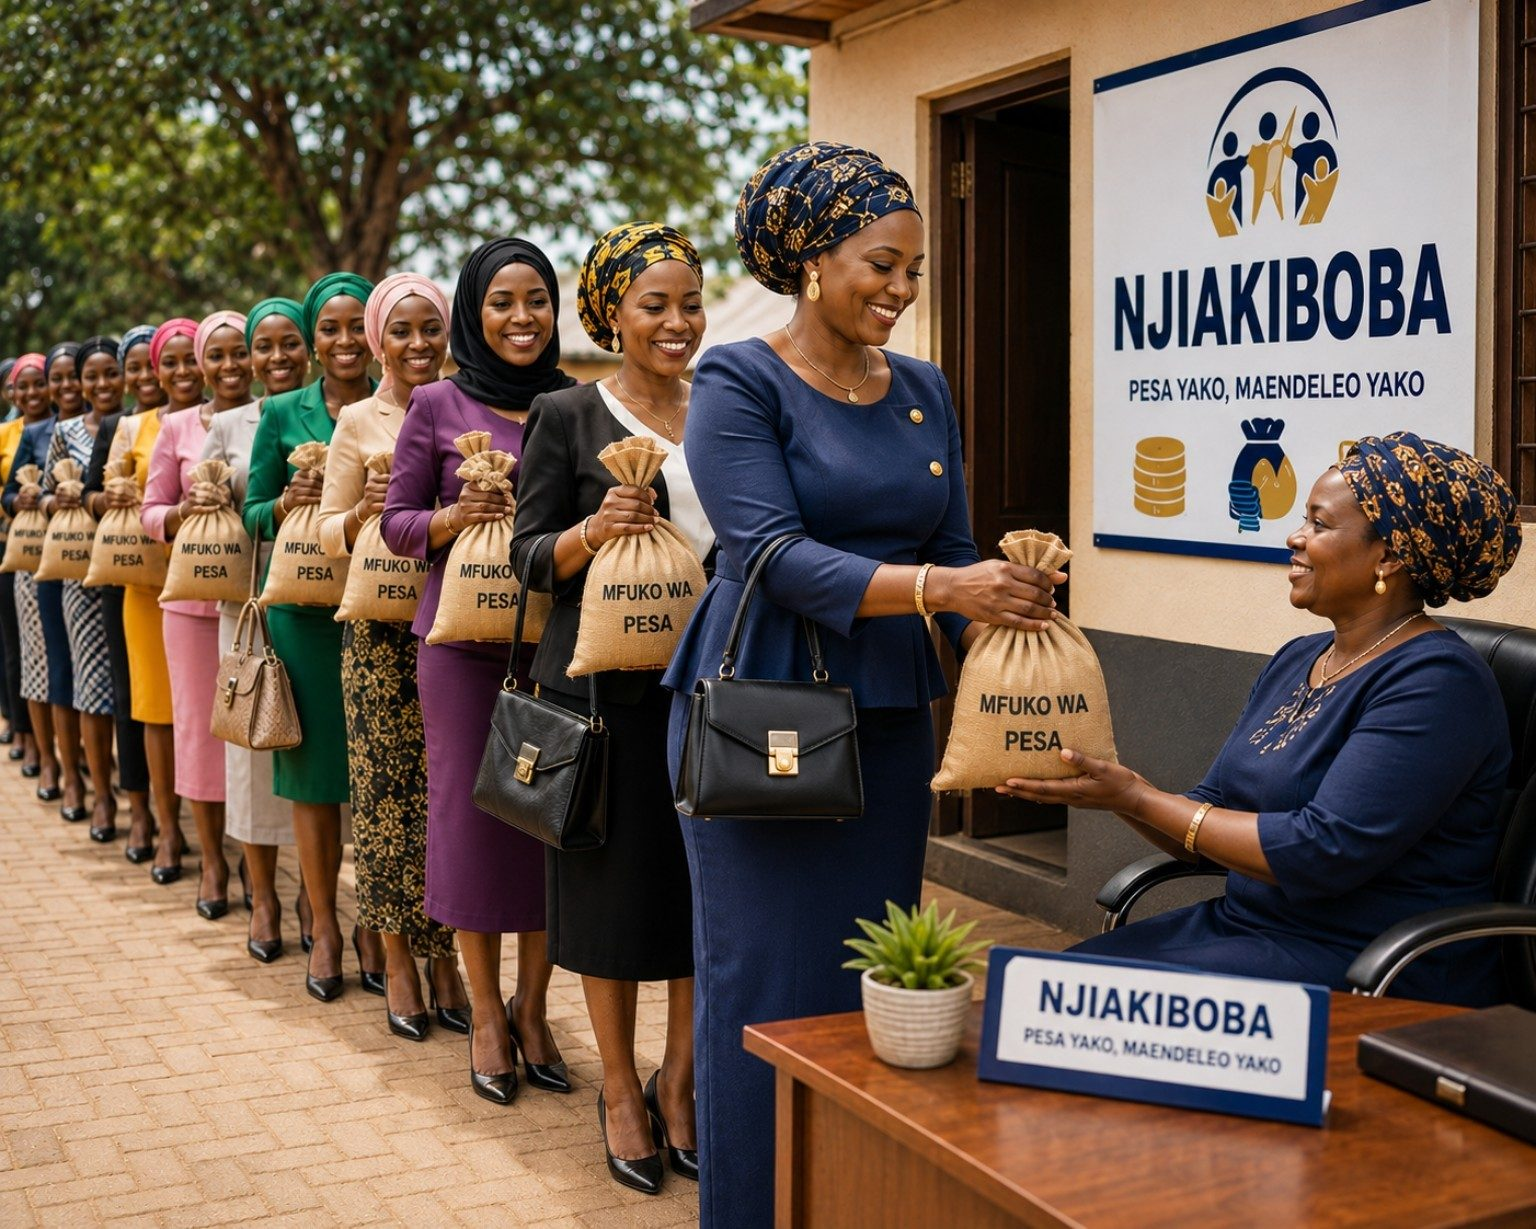
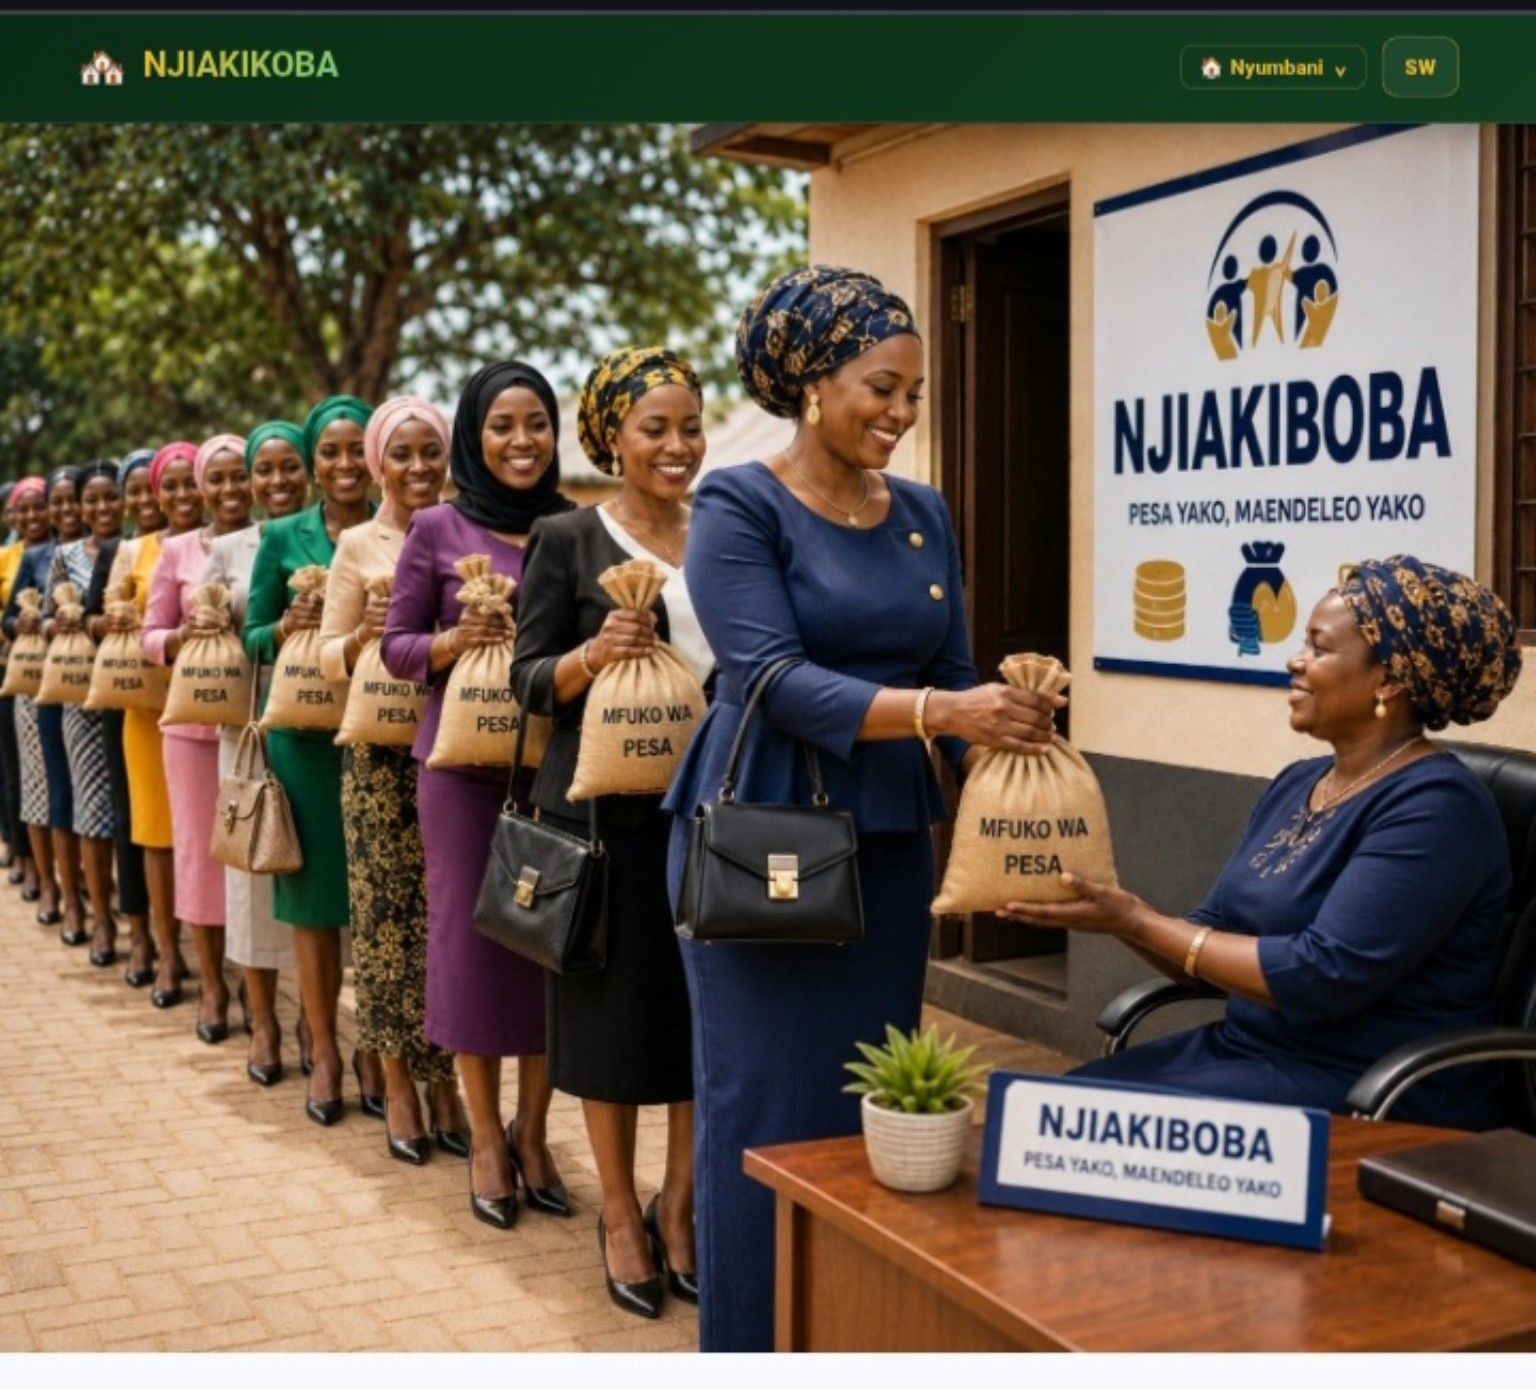
Add files via upload

diff --git a/static/style.css b/static/style.css
@@ -395,60 +395,73 @@ body{overflow-x:hidden}
 @media(max-width:600px){.dash2-stats{grid-template-columns:1fr}.dash2-quick{grid-template-columns:1fr 1fr}.dash2-banner{flex-direction:column;align-items:flex-start}.dash2-banner-right{width:100%}.dash2-banner-right .btn{flex:1}.dash2-name{font-size:22px}}
 
 
-/* ===== FINAL MOBILE/HOME HERO REPAIR =====
-   Preserve the existing NJIAKIKOBA Home structure:
-   hero image first, then readable hero content below it.
-*/
+/* ===== FINAL NJIAKIKOBA HOME — supplied hero image + left content ===== */
 body{overflow-x:hidden}
 
 .hero.hero-home{
+  position:relative;
   display:block;
-  min-height:0;
+  min-height:680px;
   padding:0;
-  background:#f7f9fc !important;
   overflow:hidden;
+  background:#062c17 !important;
 }
 
 .hero.hero-home .hero-bg-image{
-  display:block;
-  position:relative;
+  position:absolute;
+  inset:0;
   z-index:1;
+  display:block;
   width:100%;
-  height:auto;
-  max-width:100%;
+  height:100%;
+  max-width:none;
   object-fit:cover;
   object-position:center center;
   margin:0;
 }
 
 .hero.hero-home .hero-fade{
-  display:none;
+  position:absolute;
+  inset:0;
+  z-index:2;
+  display:block;
+  background:linear-gradient(90deg,
+    rgba(4,28,15,.94) 0%,
+    rgba(5,35,18,.86) 28%,
+    rgba(6,43,21,.58) 48%,
+    rgba(5,31,16,.12) 72%,
+    rgba(5,31,16,.04) 100%);
 }
 
 .hero.hero-home .hero-content{
   position:relative;
-  z-index:2;
-  max-width:760px;
-  padding:44px 6% 52px;
+  z-index:3;
+  min-height:680px;
+  width:min(620px,52%);
+  max-width:620px;
+  padding:82px 0 70px 6%;
   margin:0;
-  color:#14213d;
-  background:#f7f9fc;
+  display:flex;
+  flex-direction:column;
+  justify-content:center;
+  color:#fff;
 }
 
 .hero.hero-home .hero-greeting{
-  color:#5b6b62;
+  color:#f3d36b;
   font-size:14px;
-  font-weight:700;
-  margin:0 0 7px;
+  font-weight:800;
+  margin:0 0 9px;
+  text-shadow:0 2px 10px rgba(0,0,0,.35);
 }
 
 .hero.hero-home .hero-content h1{
-  color:#12321c !important;
-  font-size:clamp(38px,7vw,58px);
-  line-height:1.08;
-  letter-spacing:-1.5px;
-  margin:0 0 18px;
-  text-shadow:none;
+  color:#fff !important;
+  font-size:clamp(42px,5.4vw,74px);
+  line-height:1.02;
+  letter-spacing:-2.2px;
+  margin:0 0 20px;
+  text-shadow:0 4px 18px rgba(0,0,0,.42);
 }
 
 .hero.hero-home .hero-content h1 span{
@@ -458,16 +471,16 @@ body{overflow-x:hidden}
   -webkit-background-clip:initial;
   background-clip:initial;
   -webkit-text-fill-color:var(--hg-gold) !important;
-  text-shadow:none;
+  text-shadow:0 3px 15px rgba(0,0,0,.3);
 }
 
 .hero.hero-home .hero-content p{
-  max-width:650px;
-  color:#5b6b62 !important;
-  font-size:16px;
+  max-width:600px;
+  color:#f3f7f4 !important;
+  font-size:18px;
   line-height:1.7;
-  margin:0 0 24px;
-  text-shadow:none;
+  margin:0 0 25px;
+  text-shadow:0 2px 10px rgba(0,0,0,.4);
 }
 
 .hero.hero-home .hero-actions{
@@ -481,19 +494,19 @@ body{overflow-x:hidden}
 
 .hero.hero-home .hero-actions .btn{
   width:100%;
-  min-height:52px;
+  min-height:54px;
   box-sizing:border-box;
 }
 
 .hero.hero-home .home-login-box{
   width:100%;
   max-width:420px;
-  margin-top:18px;
-  padding:16px 18px;
-  background:#ffffff;
-  border:1px solid #e1e9e3;
+  margin-top:17px;
+  padding:14px 16px;
+  background:rgba(255,255,255,.97);
+  border:1px solid rgba(255,255,255,.75);
   border-radius:14px;
-  box-shadow:0 8px 24px rgba(15,60,30,.07);
+  box-shadow:0 12px 30px rgba(0,0,0,.18);
   color:#12321c;
 }
 
@@ -502,7 +515,7 @@ body{overflow-x:hidden}
   font-size:15px;
   font-weight:800;
   line-height:1.4;
-  margin:0 0 10px;
+  margin:0 0 9px;
 }
 
 .hero.hero-home .home-login-actions{
@@ -517,10 +530,10 @@ body{overflow-x:hidden}
   align-items:center;
   justify-content:flex-start;
   gap:9px;
-  min-height:46px;
+  min-height:44px;
   width:100%;
   box-sizing:border-box;
-  padding:10px 12px;
+  padding:9px 12px;
   border:1px solid #e1e9e3;
   border-radius:10px;
   background:#f8fbf9;
@@ -528,7 +541,6 @@ body{overflow-x:hidden}
   font-size:14px;
   font-weight:800;
   overflow-wrap:anywhere;
-  word-break:normal;
 }
 
 .hero.hero-home .home-login-actions a:hover{
@@ -537,49 +549,75 @@ body{overflow-x:hidden}
   color:#0e7a34 !important;
 }
 
-@media(max-width:600px){
-  .hero.hero-home .hero-bg-image{
-    width:100%;
-    height:auto;
-    min-height:0;
-    object-fit:cover;
-  }
+/* Supplied image #3 is the actual Home click target. */
+.home-nav-btn{
+  display:inline-flex;
+  align-items:center;
+  justify-content:center;
+  gap:7px;
+  min-height:38px;
+  border:1px solid rgba(232,185,35,.38);
+  border-radius:10px;
+  padding:4px 9px 4px 5px;
+  font-size:13px;
+  font-weight:800;
+  color:#e8b923;
+  background:rgba(0,0,0,.08);
+  cursor:pointer;
+}
+.home-nav-btn:hover{background:rgba(232,185,35,.12)}
+.home-click-icon{width:29px;height:29px;display:block;object-fit:cover;border-radius:7px}
+.home-menu-toggle{
+  display:inline-flex;
+  align-items:center;
+  justify-content:center;
+  width:30px;
+  height:38px;
+  margin-left:-7px;
+  border:0;
+  border-left:1px solid rgba(232,185,35,.22);
+  border-radius:0 9px 9px 0;
+  color:#e8b923;
+  background:transparent;
+  cursor:pointer;
+}
+.home-menu-toggle:hover{background:rgba(232,185,35,.10)}
+.home-menu-wrap{display:flex;align-items:center;position:relative}
+.home-menu-panel{top:calc(100% + 9px)}
+.home-menu-wrap:has(.home-menu-panel.open) .home-caret{transform:rotate(180deg)}
 
+@media(max-width:900px){
+  .hero.hero-home{min-height:680px}
+  .hero.hero-home .hero-content{min-height:680px;width:min(650px,70%);padding-left:6%}
+  .hero.hero-home .hero-content h1{font-size:clamp(40px,7vw,60px)}
+}
+
+@media(max-width:600px){
+  .hero.hero-home{min-height:760px}
+  .hero.hero-home .hero-bg-image{object-position:58% center}
+  .hero.hero-home .hero-fade{
+    background:linear-gradient(180deg,rgba(4,28,15,.86) 0%,rgba(5,35,18,.76) 43%,rgba(5,31,16,.55) 72%,rgba(5,31,16,.62) 100%);
+  }
   .hero.hero-home .hero-content{
+    min-height:760px;
     width:100%;
     max-width:none;
-    padding:34px 6% 42px;
+    padding:42px 6% 44px;
+    justify-content:flex-end;
   }
-
   .hero.hero-home .hero-content h1{
-    font-size:clamp(36px,10.5vw,50px);
-    line-height:1.05;
-    letter-spacing:-1.2px;
+    font-size:clamp(38px,11vw,52px);
+    line-height:1.03;
+    letter-spacing:-1.5px;
     max-width:100%;
   }
-
-  .hero.hero-home .hero-content p{
-    font-size:15px;
-    line-height:1.65;
-    max-width:100%;
-  }
-
-  .hero.hero-home .hero-actions,
-  .hero.hero-home .home-login-box{
-    max-width:100%;
-  }
-
-  .hero.hero-home .home-login-box{
-    padding:14px;
-  }
-
-  .hero.hero-home .home-login-actions a{
-    min-height:44px;
-    font-size:14px;
-  }
+  .hero.hero-home .hero-content p{font-size:15px;line-height:1.62;max-width:100%}
+  .hero.hero-home .hero-actions,.hero.hero-home .home-login-box{max-width:100%}
+  .hero.hero-home .home-login-box{padding:13px}
+  .hero.hero-home .home-login-actions a{min-height:43px;font-size:14px}
+  .home-nav-btn{min-height:35px;padding:3px 7px 3px 4px;font-size:11px}
+  .home-click-icon{width:27px;height:27px}
+  .home-menu-toggle{height:35px;width:27px}
 }
 
-/* Keep the next Home section cleanly separated from the hero content. */
-.hero.hero-home + .section{
-  margin-top:0;
-}
+.hero.hero-home + .section{margin-top:0}
